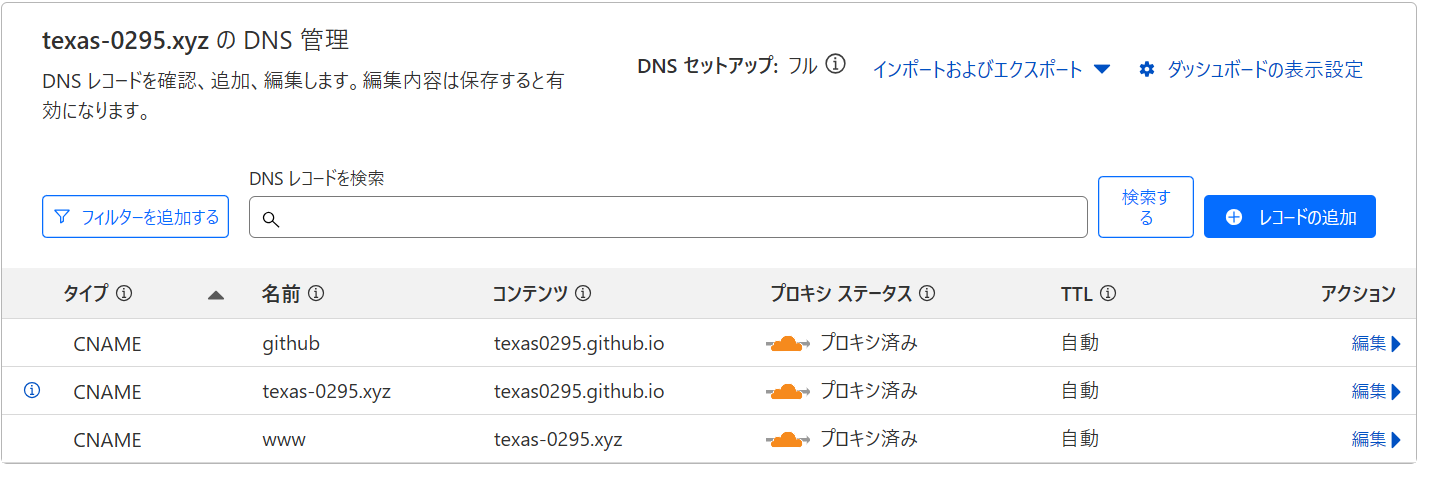
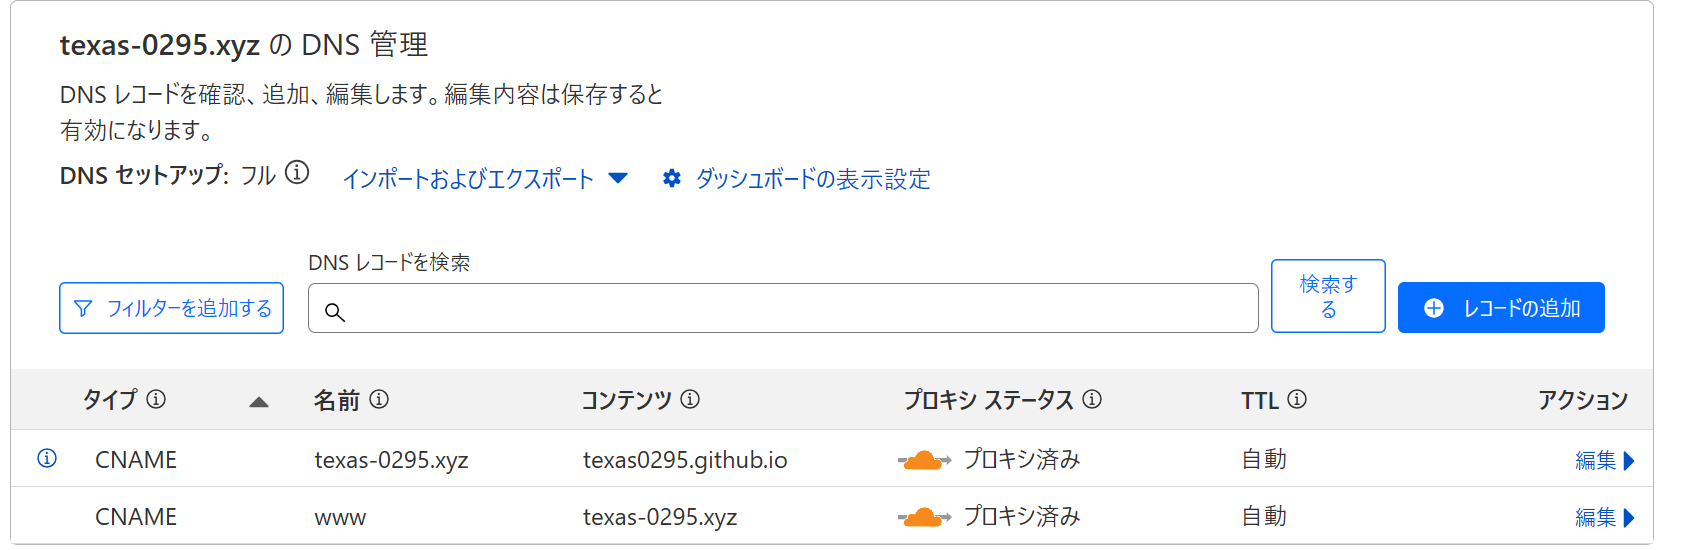
update

diff --git a/pages/articles/20240923.html b/pages/articles/20240923.html
@@ -29,7 +29,7 @@
       <li>已經購置了網域並綁定了CF的DNS伺服器</li>
     </ul>
     <h2>過程</h2>
-    <p>以該部落格的網域(texas-0295.xyz)為例，在DNS記錄中新增三條別名解析</p>
+    <p>以該部落格的網域(texas-0295.xyz)為例，在DNS記錄中新增兩條別名解析</p>
     <p><img src="/resources/img/20240923-1.png" alt="" /></p>
     <p>
       之後在Github專案的<code>Setting &gt; Pages</code>中找到Custom domain
